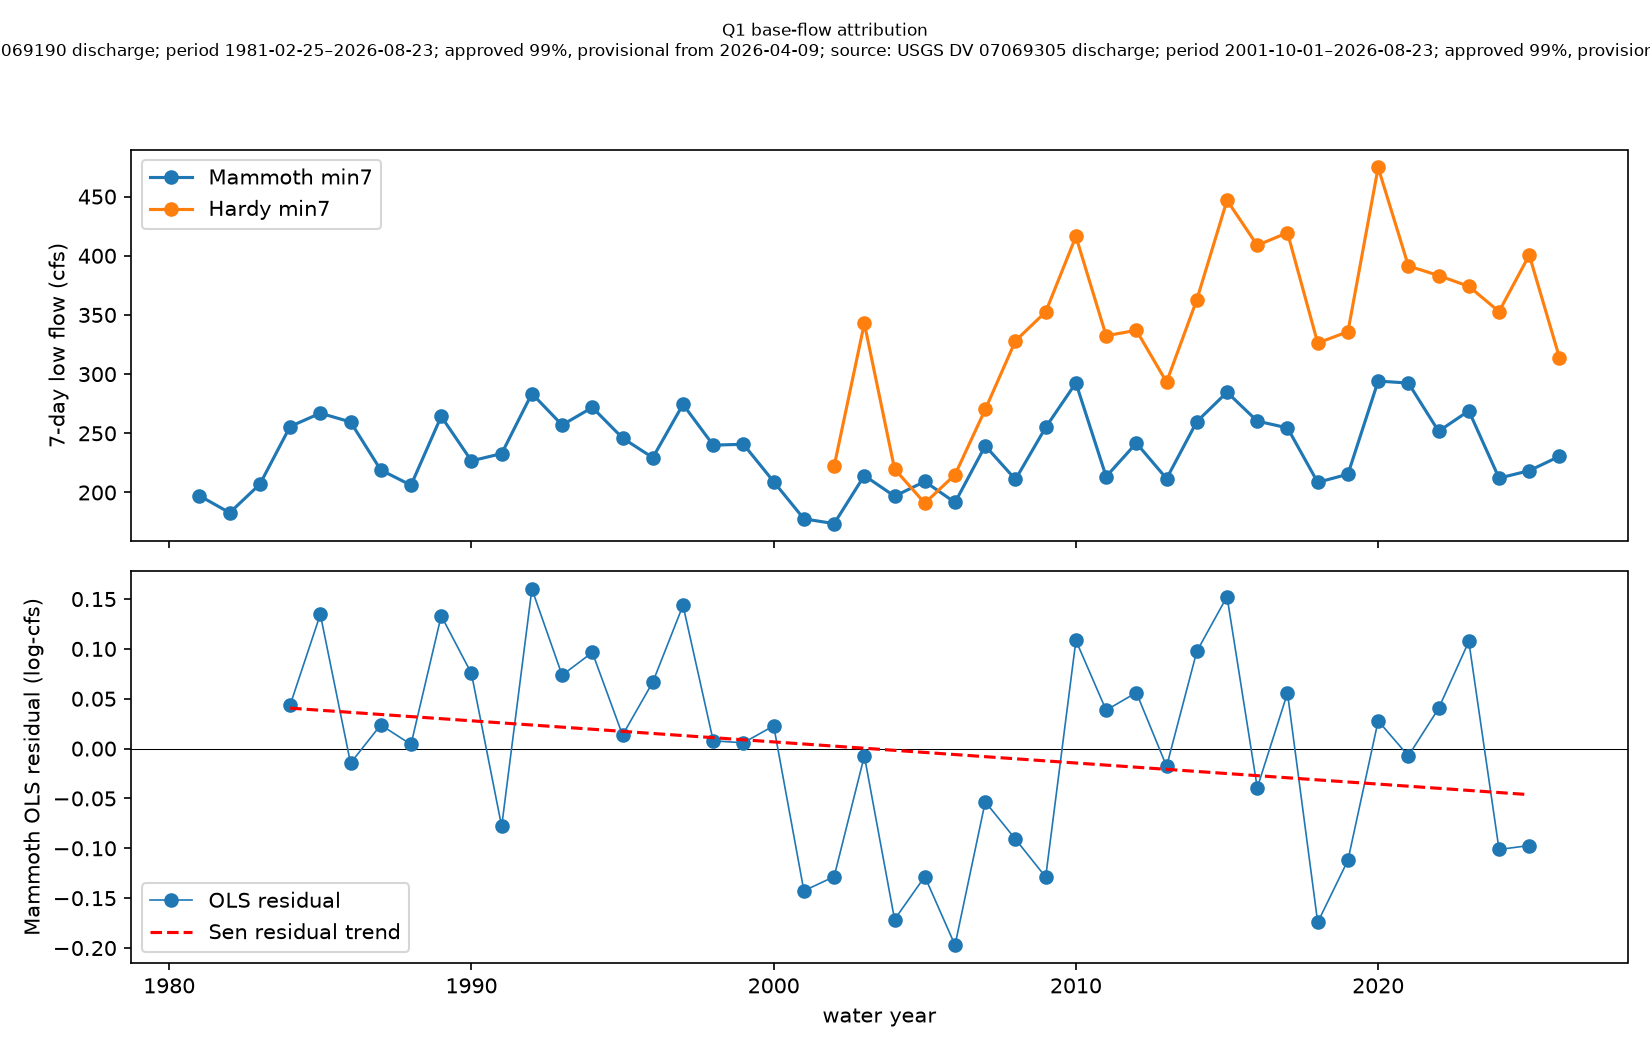
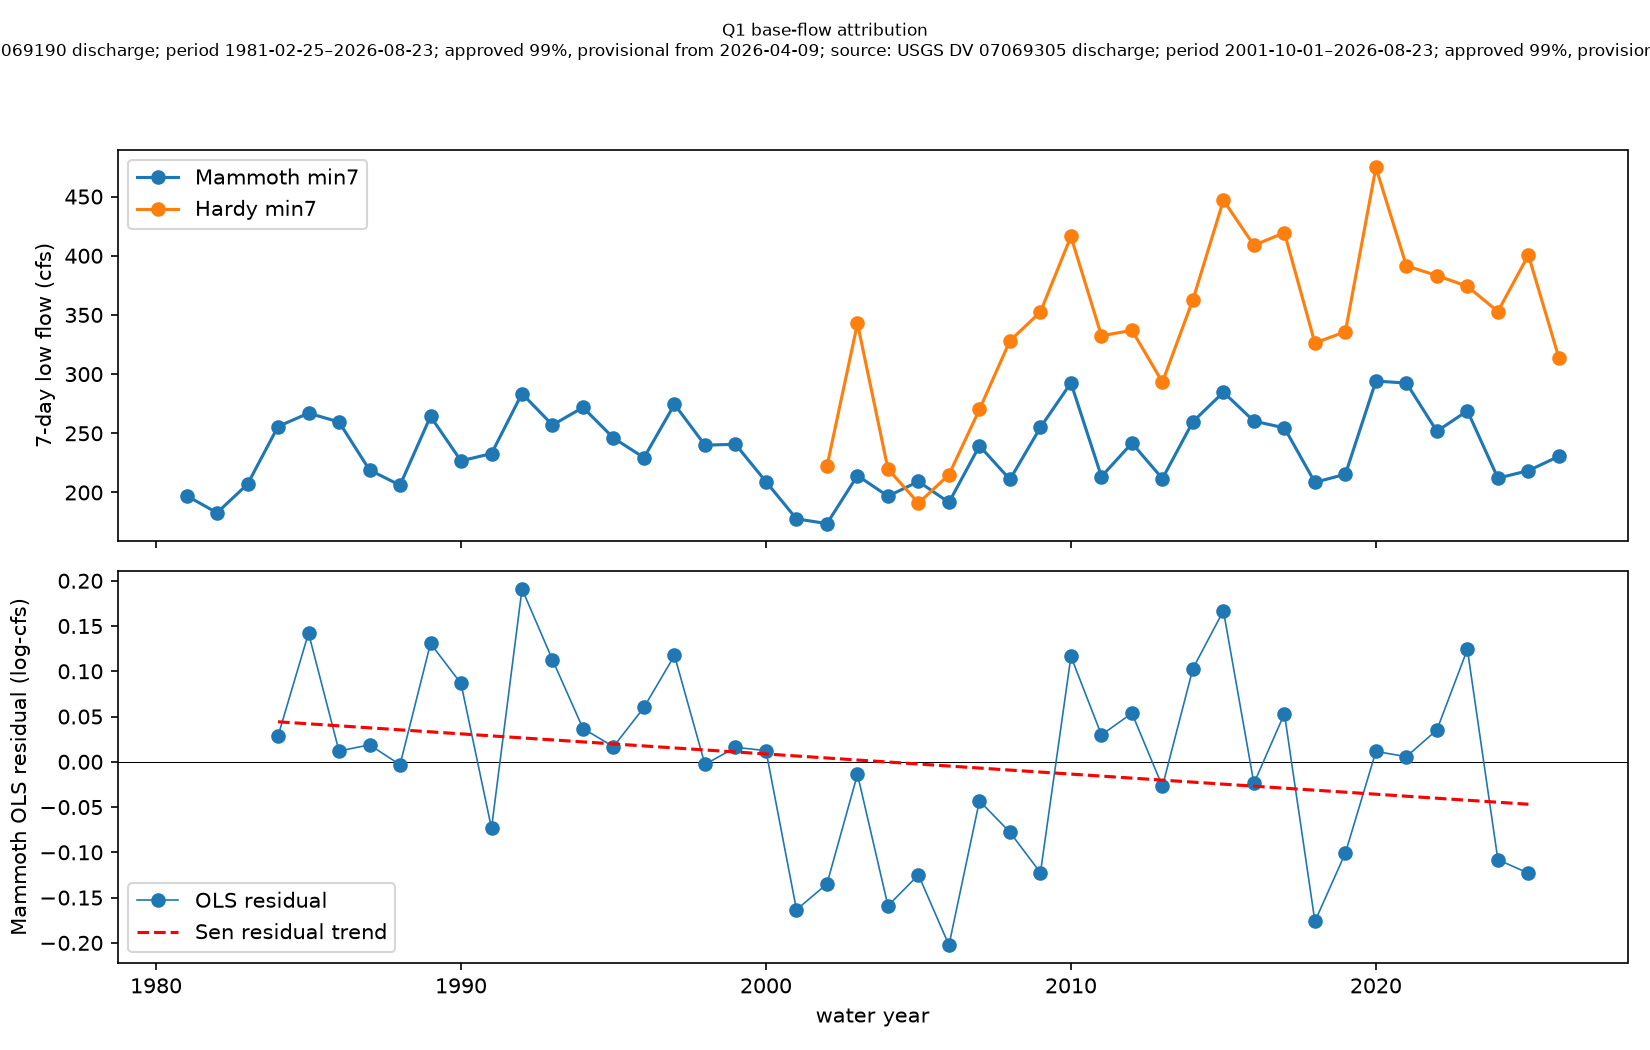
fix(study): second-pass review — Q1 windows end before min7 window starts, Pettitt CHANGED rule, Phase 6 recharge prose, plus-one permutation p

diff --git a/spring-river-study/src/spring_river/hydro/lowflow.py b/spring-river-study/src/spring_river/hydro/lowflow.py
@@ -11,7 +11,7 @@ was realised — non-causal leakage that inflates apparent precip control.
 Predictors are now strictly antecedent to each water year's own min7 window:
 
 - `p_trailing_in`      basin precip over the 365 days ending the day BEFORE
-                       the min7 window's end date;
+                       the 7-day min7 window STARTS (end_date - 7 days);
 - `p_trailing_prev_in` the 365 days before that;
 - `oni_trailing`       mean ONI anomaly over the 6 center-months ending in the
                        month before the end date.
@@ -32,6 +32,7 @@ from spring_river.stats.trends import TrendResult, trend_test
 PREDICTORS = ["p_trailing_in", "p_trailing_prev_in", "oni_trailing"]
 SON_MONTHS = [9, 10, 11]
 TRAILING_DAYS = 365
+MIN7_WINDOW_DAYS = 7  # predictors end the day before the 7-day window starts
 ONI_MONTHS = 6
 
 
@@ -117,14 +118,21 @@ def attribution_table(
             "min7_end_date": end_dates,
             "son_mean_cfs": wys.map(son),
             "bfi": wys.map(bfi),
+            # Windows end the day BEFORE the 7-day min7 window STARTS
+            # (end_date - 7 days), so no response day overlaps a predictor.
             "p_trailing_in": [
-                _trailing_precip(daily_p, d, 1, min_precip_coverage) for d in end_dates
-            ],
-            "p_trailing_prev_in": [
-                _trailing_precip(daily_p, d, 1 + TRAILING_DAYS, min_precip_coverage)
+                _trailing_precip(daily_p, d, MIN7_WINDOW_DAYS, min_precip_coverage)
                 for d in end_dates
             ],
-            "oni_trailing": [_trailing_oni(o, d, min_oni_months) for d in end_dates],
+            "p_trailing_prev_in": [
+                _trailing_precip(daily_p, d, MIN7_WINDOW_DAYS + TRAILING_DAYS, min_precip_coverage)
+                for d in end_dates
+            ],
+            "oni_trailing": [
+                _trailing_oni(o, d - pd.DateOffset(days=MIN7_WINDOW_DAYS), min_oni_months)
+                if pd.notna(d) else float("nan")
+                for d in end_dates
+            ],
             "complete": wys.map(complete).fillna(False).astype(bool),
         }
     )

diff --git a/spring-river-study/src/spring_river/analysis/phase4.py b/spring-river-study/src/spring_river/analysis/phase4.py
@@ -58,11 +58,21 @@ def _fmt_or_short(r: TrendResult | None, unit: str, n: int) -> str:
     return fmt_trend(r, unit) if r is not None else f"not tested (n={n} < {MIN_N})"
 
 
-def _pettitt_line(tbl: pd.DataFrame) -> str:
+def _pettitt_result(tbl: pd.DataFrame) -> tuple[int, float, str]:
     m7 = tbl[tbl["complete"]].dropna(subset=["min7_cfs"])
     pt = pettitt(m7["min7_cfs"].to_numpy())
     wy_change = int(m7["wy"].iloc[pt.change_index])
-    return f"after WY {wy_change} (K={pt.k:.0f}, p={pt.p:.3f}, n={pt.n})"
+    return wy_change, pt.p, f"after WY {wy_change} (K={pt.k:.0f}, p={pt.p:.3f}, n={pt.n})"
+
+
+def _pettitt_line(tbl: pd.DataFrame) -> str:
+    return _pettitt_result(tbl)[2]
+
+
+def _pettitt_changed(tbl_all: pd.DataFrame, tbl_appr: pd.DataFrame) -> bool:
+    wy_a, p_a, _ = _pettitt_result(tbl_all)
+    wy_b, p_b, _ = _pettitt_result(tbl_appr)
+    return wy_a != wy_b or (p_a < 0.05) != (p_b < 0.05)
 
 
 def _coef_line(fit: AttributionFit, k: str) -> str:
@@ -105,6 +115,8 @@ def _fit_section(
         *sensitivity_lines("residual trend", fit.residual_trend, fit_appr.residual_trend),
         *sensitivity_lines("min7 raw trend", fit.min7_trend, fit_appr.min7_trend),
         f"- Pettitt (approved-only): {_pettitt_line(tbl_appr)}",
+        *(["- **CHANGED**: Pettitt change-point year or significance differs between all and approved-only."]
+          if _pettitt_changed(tbl, tbl_appr) else []),
         f"- OLS (approved-only): R²={fit_appr.r2:.2f}, n={fit_appr.n}",
     ]
     for k in PREDICTORS:

diff --git a/spring-river-study/src/spring_river/analysis/phase6.py b/spring-river-study/src/spring_river/analysis/phase6.py
@@ -72,9 +72,10 @@ def _divergence_note(trends: dict[str, pd.DataFrame], coop_idx: pd.DataFrame) ->
             f"- {COOP_SID} years failing 90% coverage (excluded from its trend tests): {', '.join(map(str, failed))}. "
             "The 2011–2021 hole removes most of the recent wet decade from the station test, so its null result is "
             "low power, not evidence against the basin trend.",
-            "- `recharge_in` is NaN for the first year of every series by construction: its coverage gate is judged against "
-            "the full Sep (year-1)–Feb (year) calendar season, and no series holds the September before its first January. "
-            "Its n is therefore one less than the other indices for the same series.",
+            "- `recharge_in` uses a stricter gate than the other indices: coverage is judged against the full "
+            "Sep (year-1)–Feb (year) calendar season, so it is NaN for any year whose season straddles a series start "
+            "or a gap (e.g. a series beginning 1 Jan has no recharge value for its first year). Its n can therefore be "
+            "smaller than the other indices' n for the same series, never larger.",
             "- PRISM basin values are a 4 km grid mean over a ~60 × 60 km box around West Plains; station gaps enter "
             "PRISM only indirectly through its interpolation. Treat the basin trends as the Q3 headline and the station tests as a consistency check.", ""]
 

diff --git a/spring-river-study/tests/test_lowflow.py b/spring-river-study/tests/test_lowflow.py
@@ -49,7 +49,8 @@ def test_predictors_are_strictly_antecedent_to_min7_window():
     row = tbl.dropna(subset=["p_trailing_in", "p_trailing_prev_in", "oni_trailing"]).iloc[3]
     end = pd.Timestamp(row["min7_end_date"])
     p = basin.set_index("date")["pcpn_in"]
-    last = end - pd.DateOffset(days=1)
+    # the 7-day min7 window spans end-6 .. end; predictors must end at end-7
+    last = end - pd.DateOffset(days=7)
     expected = p.loc[last - pd.DateOffset(days=364) : last].sum()
     assert abs(row["p_trailing_in"] - expected) < 1e-9
     prev_last = last - pd.DateOffset(days=365)

diff --git a/spring-river-study/src/spring_river/stats/permutation.py b/spring-river-study/src/spring_river/stats/permutation.py
@@ -61,7 +61,7 @@ def conditional_rate_test(
             for _ in range(n_perm)
         ]
     )
-    p = float((perm >= diff).mean())
+    p = float(((perm >= diff).sum() + 1) / (n_perm + 1))  # plus-one Monte Carlo correction
     k = int(quiet[np.flatnonzero(prior) + 1].sum())
     lo, hi = _clopper_pearson(k, n_major)
     return ConditionalRateResult(

diff --git a/spring-river-study/docs/phase4_baseflow.md b/spring-river-study/docs/phase4_baseflow.md
@@ -13,44 +13,44 @@ Model: OLS log(min7) ~ p_trailing_in + p_trailing_prev_in + oni_trailing (HC3). 
 - Series: source: USGS DV 07069190 discharge; period 1981-02-25–2026-08-23; approved 99%, provisional from 2026-04-09
 - min7 raw trend (log-cfs): Sen slope 0.000319 log-cfs/yr (95% CI -0.00376 to 0.00357); MK z=0.13, p=0.897; n=42
 - Pettitt change-point on min7: after WY 2008 (K=178, p=0.260, n=45)
-- OLS log(min7) ~ p_trailing_in + p_trailing_prev_in + oni_trailing (HC3): R²=0.47, n=42
-  - p_trailing_in: 0.0139 (95% CI 0.0097 to 0.0182)
-  - p_trailing_prev_in: 0.0009 (95% CI -0.0031 to 0.0049)
-  - oni_trailing: 0.0205 (95% CI -0.0204 to 0.0613)
-- **Residual trend (non-climatic component): Sen slope -0.00212 log-cfs/yr (95% CI -0.00497 to 0.000592); MK z=-1.60, p=0.109; n=42**
+- OLS log(min7) ~ p_trailing_in + p_trailing_prev_in + oni_trailing (HC3): R²=0.45, n=42
+  - p_trailing_in: 0.0130 (95% CI 0.0089 to 0.0171)
+  - p_trailing_prev_in: 0.0007 (95% CI -0.0035 to 0.0049)
+  - oni_trailing: 0.0189 (95% CI -0.0222 to 0.0600)
+- **Residual trend (non-climatic component): Sen slope -0.00222 log-cfs/yr (95% CI -0.00497 to 0.000453); MK z=-1.71, p=0.087; n=42**
 
 Sensitivity (approved-only re-run of the full chain):
-- residual trend (all): Sen slope -0.00212 /yr (95% CI -0.00497 to 0.000592); MK z=-1.60, p=0.109; n=42
-- residual trend (approved-only): Sen slope -0.00212 /yr (95% CI -0.00497 to 0.000592); MK z=-1.60, p=0.109; n=42
+- residual trend (all): Sen slope -0.00222 /yr (95% CI -0.00497 to 0.000453); MK z=-1.71, p=0.087; n=42
+- residual trend (approved-only): Sen slope -0.00222 /yr (95% CI -0.00497 to 0.000453); MK z=-1.71, p=0.087; n=42
 - min7 raw trend (all): Sen slope 0.000319 /yr (95% CI -0.00376 to 0.00357); MK z=0.13, p=0.897; n=42
 - min7 raw trend (approved-only): Sen slope 0.000319 /yr (95% CI -0.00376 to 0.00357); MK z=0.13, p=0.897; n=42
 - Pettitt (approved-only): after WY 2008 (K=178, p=0.260, n=45)
-- OLS (approved-only): R²=0.47, n=42
-  - p_trailing_in: 0.0139 (95% CI 0.0097 to 0.0182)
-  - p_trailing_prev_in: 0.0009 (95% CI -0.0031 to 0.0049)
-  - oni_trailing: 0.0205 (95% CI -0.0204 to 0.0613)
+- OLS (approved-only): R²=0.45, n=42
+  - p_trailing_in: 0.0130 (95% CI 0.0089 to 0.0171)
+  - p_trailing_prev_in: 0.0007 (95% CI -0.0035 to 0.0049)
+  - oni_trailing: 0.0189 (95% CI -0.0222 to 0.0600)
 
 ### Hardy
 
 - Series: source: USGS DV 07069305 discharge; period 2001-10-01–2026-08-23; approved 99%, provisional from 2026-04-09
 - min7 raw trend (log-cfs): Sen slope 0.023 log-cfs/yr (95% CI 0.00736 to 0.0361); MK z=3.05, p=0.002; n=24
 - Pettitt change-point on min7: after WY 2013 (K=110, p=0.013, n=24)
-- OLS log(min7) ~ p_trailing_in + p_trailing_prev_in + oni_trailing (HC3): R²=0.48, n=24
-  - p_trailing_in: 0.0228 (95% CI 0.0108 to 0.0347)
-  - p_trailing_prev_in: 0.0176 (95% CI 0.0069 to 0.0283)
-  - oni_trailing: 0.0767 (95% CI -0.0520 to 0.2054)
-- **Residual trend (non-climatic component): Sen slope 0.00823 log-cfs/yr (95% CI -0.000811 to 0.0194); MK z=1.71, p=0.087; n=24**
+- OLS log(min7) ~ p_trailing_in + p_trailing_prev_in + oni_trailing (HC3): R²=0.47, n=24
+  - p_trailing_in: 0.0230 (95% CI 0.0097 to 0.0363)
+  - p_trailing_prev_in: 0.0173 (95% CI 0.0046 to 0.0300)
+  - oni_trailing: 0.0779 (95% CI -0.0465 to 0.2022)
+- **Residual trend (non-climatic component): Sen slope 0.00676 log-cfs/yr (95% CI -0.00135 to 0.0195); MK z=1.76, p=0.078; n=24**
 
 Sensitivity (approved-only re-run of the full chain):
-- residual trend (all): Sen slope 0.00823 /yr (95% CI -0.000811 to 0.0194); MK z=1.71, p=0.087; n=24
-- residual trend (approved-only): Sen slope 0.00823 /yr (95% CI -0.000811 to 0.0194); MK z=1.71, p=0.087; n=24
+- residual trend (all): Sen slope 0.00676 /yr (95% CI -0.00135 to 0.0195); MK z=1.76, p=0.078; n=24
+- residual trend (approved-only): Sen slope 0.00676 /yr (95% CI -0.00135 to 0.0195); MK z=1.76, p=0.078; n=24
 - min7 raw trend (all): Sen slope 0.023 /yr (95% CI 0.00736 to 0.0361); MK z=3.05, p=0.002; n=24
 - min7 raw trend (approved-only): Sen slope 0.023 /yr (95% CI 0.00736 to 0.0361); MK z=3.05, p=0.002; n=24
 - Pettitt (approved-only): after WY 2013 (K=110, p=0.013, n=24)
-- OLS (approved-only): R²=0.48, n=24
-  - p_trailing_in: 0.0228 (95% CI 0.0108 to 0.0347)
-  - p_trailing_prev_in: 0.0176 (95% CI 0.0069 to 0.0283)
-  - oni_trailing: 0.0767 (95% CI -0.0520 to 0.2054)
+- OLS (approved-only): R²=0.47, n=24
+  - p_trailing_in: 0.0230 (95% CI 0.0097 to 0.0363)
+  - p_trailing_prev_in: 0.0173 (95% CI 0.0046 to 0.0300)
+  - oni_trailing: 0.0779 (95% CI -0.0465 to 0.2022)
 
 ### BFI trend (gap-segmented Eckhardt; Lyne-Hollick check)
 

diff --git a/spring-river-study/docs/review_phase4-6.md b/spring-river-study/docs/review_phase4-6.md
@@ -27,3 +27,16 @@ Reviewer could not run the suite (uv cache permission in its sandbox); direct-ru
 | 2 | Spec gaps: fixed rather than fitted BFImax; no linear-reservoir attribution; no spectral check for Q6. | **Deferred** to Phase 7/8 with the §2.5 items; recorded in `spring_river_research.md`. Spectral check on n=7 events is not informative. |
 | 3 | Caption gaps (combined Phase 4 captions derive approval from Mammoth only; Phase 6 indices figure lacks period/approval; BH headline claims omit n). | **Fixed** in runners. |
 | 4 | Q4 7-day post-flood skip. | **Fixed** (see blocking 9). |
+
+## Second pass (same day, over 6288d49 + c2909de)
+
+**Verdict: NEEDS-CHANGES** (3 blocking, 3 non-blocking) — all addressed in the following commit.
+
+| # | Finding | Disposition |
+|---|---|---|
+| B1 | Q1 predictors still overlapped the 7-day min7 window by six days (precip ended at `end_date − 1`, window spans `end_date − 6 … end_date`). | **Fixed.** Predictor windows (precip and ONI) now end at `end_date − 7`, the day before the window starts (`MIN7_WINDOW_DAYS`); test updated to pin that boundary. Mammoth residual −0.0022 (CI −0.0050 to +0.0005, n=42); Hardy +0.0068 (CI −0.0014 to 0.0195, n=24). |
+| B2 | Pettitt approved-only printed but not CHANGED-checked. | **Fixed.** `_pettitt_changed` flags a differing change-year or p crossing 0.05. |
+| B3 | Phase 6 prose claimed recharge n is always one less than other indices; false for KUNO (27/27). | **Fixed.** Prose now states the gate correctly (n ≤ other indices, NaN when the Sep–Feb span straddles a series start or gap). |
+| N1 | Complete-WY selection uses the series max date only. | **Overruled for now** — stage series has no interior year-long gaps (qa_report: two ≤13-day gaps in 2014); revisit if a longer gap appears. |
+| N2 | Q4 candidate precip windows lack a coverage gate. | **Overruled for now** — PRISM basin series is complete over 1981–2026 (`precip_recharge_in` populated for every WY in the ledger). |
+| N3 | Permutation p lacked plus-one correction. | **Fixed.** |

diff --git a/spring-river-study/spring_river_research.md b/spring-river-study/spring_river_research.md
@@ -67,7 +67,7 @@ systematic series. Imboden's 1915+ peaks are the defensible long series.
 
 | Q | Hypothesis | Result |
 |---|---|---|
-| Q1 | Drought-driven, not structural | Supported (post-review, antecedent predictors). Mammoth residual trend −0.0021 log-cfs/yr (CI −0.0050 to +0.0006, n=42); Hardy residual +0.008 (CI −0.001 to 0.019, n=24). Hardy raw min7 *rises* (+0.023/yr, CI 0.007–0.036) but trailing-365-day precip explains it (R²=0.48). |
+| Q1 | Drought-driven, not structural | Supported (post-review, antecedent predictors). Mammoth residual trend −0.0022 log-cfs/yr (CI −0.0050 to +0.0005, n=42); Hardy residual +0.0068 (CI −0.0014 to 0.0195, n=24). Hardy raw min7 *rises* (+0.023/yr, CI 0.007–0.036) but trailing-365-day precip (ending before the min7 window starts) explains it (R²=0.47). |
 | Q2 | Magnitude up, frequency flat | Not detectable. Imboden peaks +0.0011 log10-cfs/yr (CI −0.0012 to 0.0041, n=89); pre/post-2008 10-yr quantile CIs overlap. |
 | Q3 | Weak/inconclusive | Basin (PRISM): 9/10 indices up (total +2.4 in/decade, CI 0.4–4.5, n=45); recharge-season total flat (−0.02, CI −1.3 to 1.2, n=44). Station tests low-power (COOP coverage gaps). |
 | Q4 | Floods reduce recharge | **Not supported — opposite sign.** 6-month post-flood base flow +28% (Mammoth, CI 20–42, 15 unique controls) and +23% (Hardy, CI 13–35, 11 controls), n=6; matched on precip + antecedent base flow, 30-day recession skip. Descriptive, not causal. |

diff --git a/spring-river-study/docs/phase6_precip.md b/spring-river-study/docs/phase6_precip.md
@@ -67,7 +67,7 @@ Series: USC00238880 West Plains COOP (1981-01-01–2026-08-24; COOP series 1981+
 
 - BH-significant indices per series: USC00238880 0/10, KUNO 1/10, basin 9/10.
 - USC00238880 years failing 90% coverage (excluded from its trend tests): 1997, 2011, 2012, 2013, 2014, 2015, 2016, 2017, 2019, 2020, 2021. The 2011–2021 hole removes most of the recent wet decade from the station test, so its null result is low power, not evidence against the basin trend.
-- `recharge_in` is NaN for the first year of every series by construction: its coverage gate is judged against the full Sep (year-1)–Feb (year) calendar season, and no series holds the September before its first January. Its n is therefore one less than the other indices for the same series.
+- `recharge_in` uses a stricter gate than the other indices: coverage is judged against the full Sep (year-1)–Feb (year) calendar season, so it is NaN for any year whose season straddles a series start or a gap (e.g. a series beginning 1 Jan has no recharge value for its first year). Its n can therefore be smaller than the other indices' n for the same series, never larger.
 - PRISM basin values are a 4 km grid mean over a ~60 × 60 km box around West Plains; station gaps enter PRISM only indirectly through its interpolation. Treat the basin trends as the Q3 headline and the station tests as a consistency check.
 
 ## Coupling: monthly basin precip → Mammoth Spring flow (anomaly correlation by lag)
